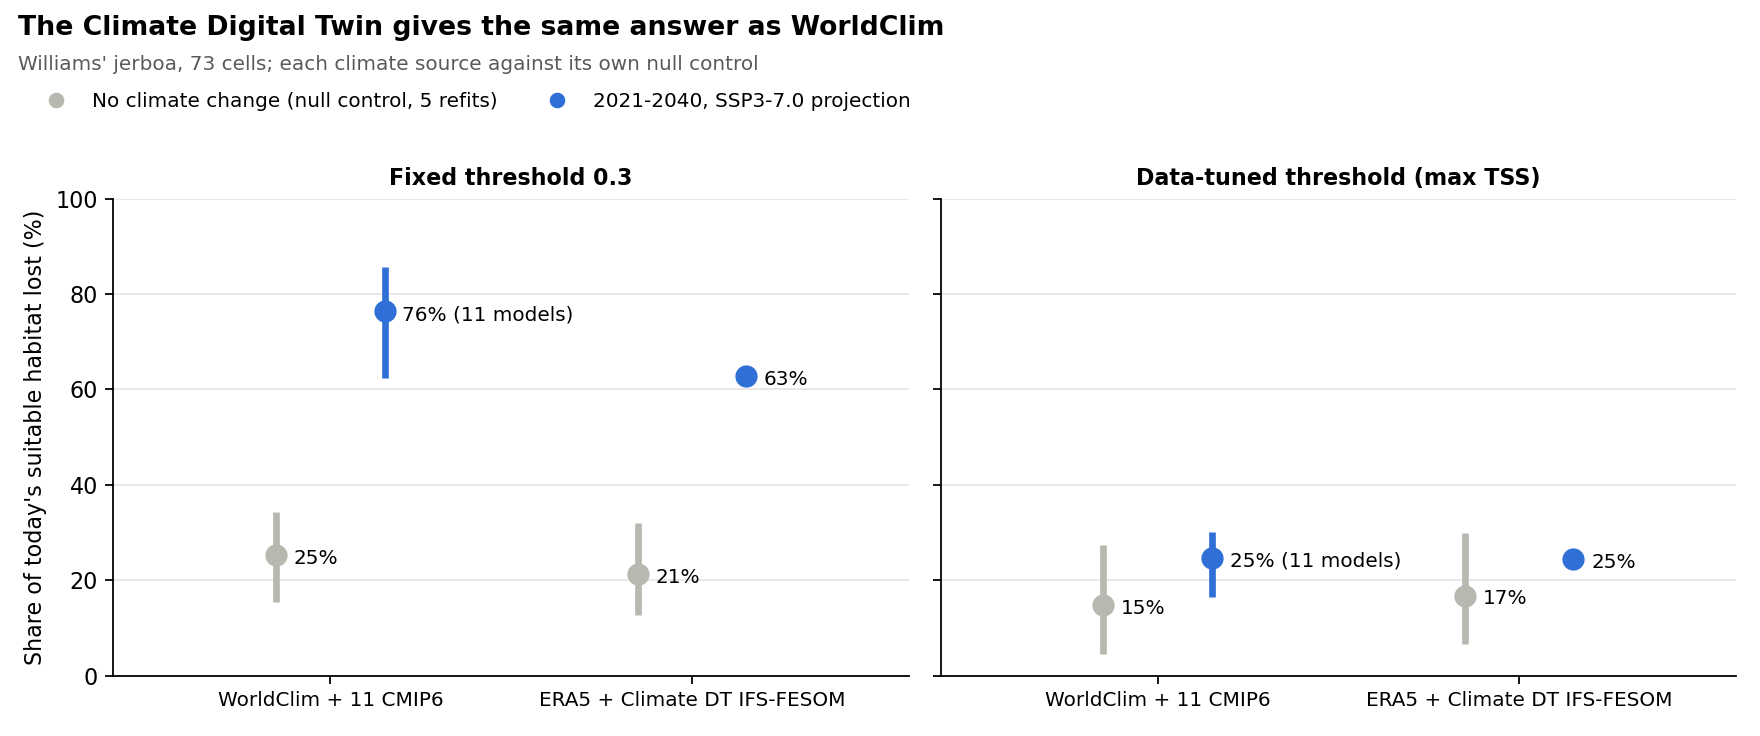
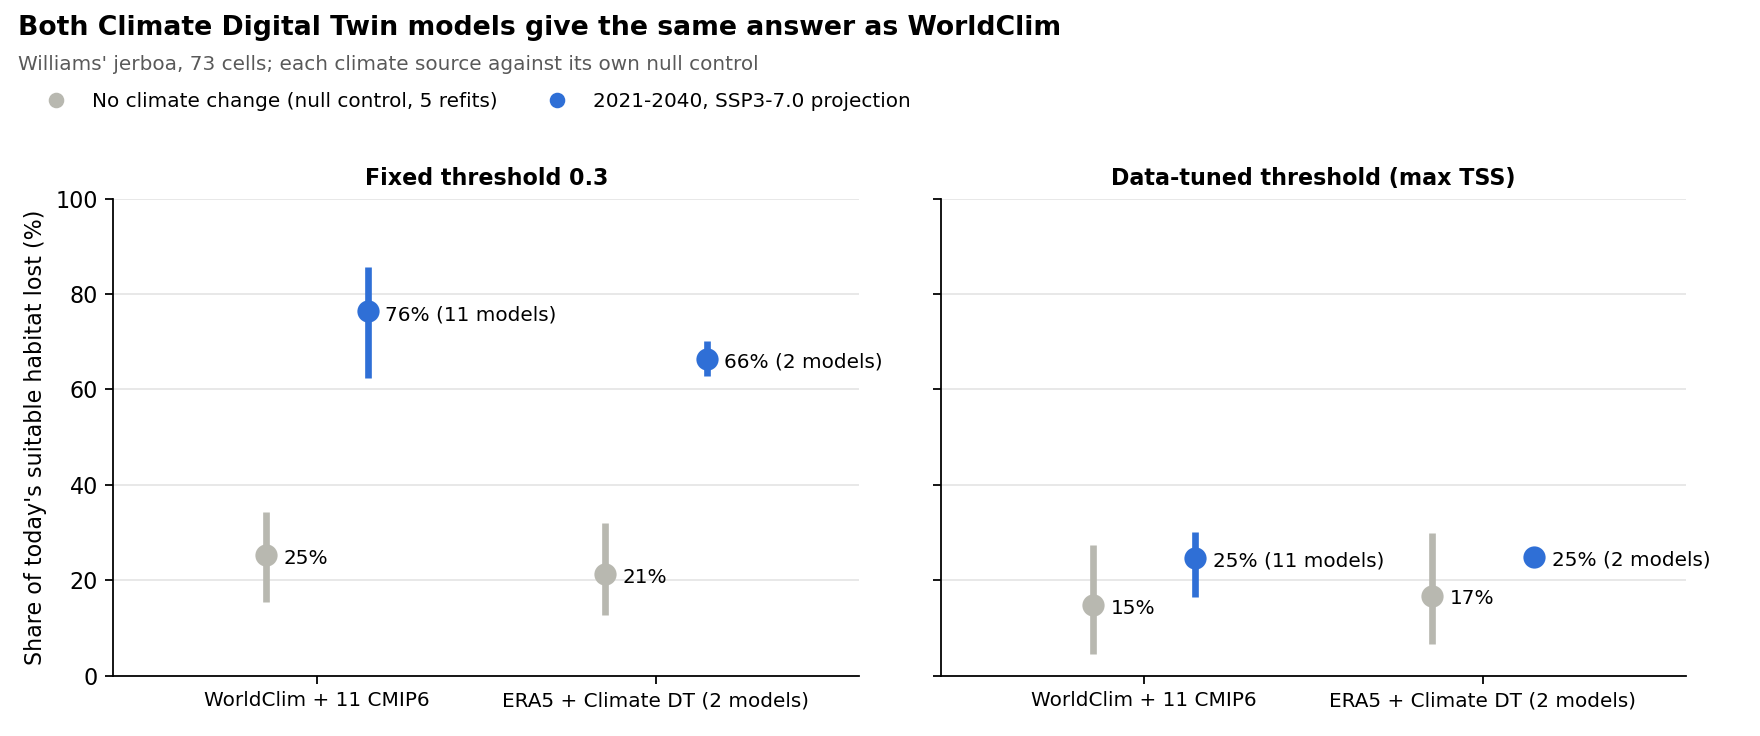
Second Climate DT model (IFS-NEMO) in the ERA5 configuration
Loss 2021-2040, 73 cells: 70.1% (IFS-NEMO) and 62.8% (IFS-FESOM) at the paper's threshold
against a null of 12.8-32.0%; 25.2% and 24.5% at max TSS, inside the null, as with WorldClim.
IFS-NEMO over 1991-2020: +1.05 degC, 70% of ERA5's precipitation. Figure rows and PNG updated.

diff --git a/pipeline/99_doc_figures.py b/pipeline/99_doc_figures.py
@@ -29,7 +29,7 @@ print(json.dumps(rows, indent=1))
 # Figure "WorldClim against the Climate Digital Twin" (73 cells, 2021-2040, SSP3-7.0): each configuration with its
 # own null control. Reads results/loss_era5_occurrences_merged.csv, null_control_era5_occurrences_merged.json and
 # bioclim_checks_era5.json; writes results/doc_figure_climatedt.json.
-CONF = {"worldclim": "WorldClim + 11 CMIP6", "era5": "ERA5 + Climate DT IFS-FESOM"}
+CONF = {"worldclim": "WorldClim + 11 CMIP6", "era5": "ERA5 + Climate DT (2 models)"}
 rows2 = []
 for conf, clab in CONF.items():
     tag = f"{conf}_occurrences_merged"
@@ -87,6 +87,6 @@ def dot_range(rows, group_key, title, subtitle, out):
 dot_range(rows, "occ", "With the authors' localities, projected loss clears the noise",
           "Williams' jerboa, WorldClim 2.1 + 11 CMIP6 models; dot = median (null: mean), line = range",
           "figures/doc_loss_vs_null.png")
-dot_range(rows2, "conf", "The Climate Digital Twin gives the same answer as WorldClim",
+dot_range(rows2, "conf", "Both Climate Digital Twin models give the same answer as WorldClim",
           "Williams' jerboa, 73 cells; each climate source against its own null control",
           "figures/doc_worldclim_vs_climatedt.png")

diff --git a/README.md b/README.md
@@ -36,7 +36,7 @@ With public GBIF data alone the projected loss cannot be told from model noise; 
 
 - Occurrences: GBIF read with [healpix-connector](https://github.com/annefou/healpix-connector) v0.2.0 ([doi:10.5281/zenodo.23603498](https://doi.org/10.5281/zenodo.23603498)), Catalogue of Life XR taxonomy stated (keys BSW8, *Allactaga (Paralactaga) williamsi* Thomas 1897, and VNB82, the 2016 concept to which records labelled *Scarturus williamsi* are attached by name matching), each record's uncertainty footprint kept; iNaturalist "needs ID"; 53 localities digitised from Figure 1A of the paper (CC BY 4.0) with an overlay check, about 15 km uncertainty: `inputs/literature/helvaci2025_fig1A_digitised.csv`, `figures/helvaci2025_fig1A_digitised_overlay.png`, reproduced by `pipeline/digitise/fetch_figure.py` then `fig1_points.py` (kept in this private repository until the authors agree).
 - Check without map digitising: 23 *S. williamsi* localities named in the GenBank records of Olgun Karacan et al. 2024 (doi:10.1155/jzs/8123686; their Table S1 gives provinces only), geocoded with OpenStreetMap Nominatim (5 km for a village or town, 15 km for a district): `inputs/literature_genbank/olgunkaracan2024_genbank_localities.csv` by `pipeline/digitise/genbank_localities.py`; set `occurrences_genbank` (43 cells), run with `00b_extra_occurrences.py work occurrences_genbank <file>`, `02_sdm.py`, `06_null_control.py`.
-- Climate: WorldClim 2.1 (2.5') and CMIP6 change-factor layers; ERA5 1991-2020 (`pipeline/04b_era5.py`, Planetary Computer Zarr) with Climate DT generation 2 changes (IFS-FESOM done, IFS-NEMO in progress), read with healpix-connector `sources.climatedt_monthly`; ERA5-Land (`pipeline/04_era5land.py`) as a second baseline when the CDS queue allows.
+- Climate: WorldClim 2.1 (2.5') and CMIP6 change-factor layers; ERA5 1991-2020 (`pipeline/04b_era5.py`, Planetary Computer Zarr) with Climate DT generation 2 changes (IFS-FESOM and IFS-NEMO), read with healpix-connector `sources.climatedt_monthly`; ERA5-Land (`pipeline/04_era5land.py`) as a second baseline when the CDS queue allows.
 - ERA5 (0.25 deg, wider than a cell) goes onto the WGS84 cells with healpix-connector `sources.gridded.sample_cells_from_grid` (value of the box containing the cell centre); an exact area overlap differs by 0.1 degC on average (2001).
 - Grid: HEALPix depth 10 (40.5 km2 cells; healpix-geo, WGS84 ellipsoid, NESTED); resampling with healpix-resample, bilinear in conservative mode (`pipeline/90_compare_resamplers.py`: within 0.1 of an exact area overlap; Climate DT sphere -> WGS84 by matching ids would be off by 0.80 degC on average).
 - Model: as in the paper (Random Forest, 1,000 background cells, 10 replicates 70/30, TSS-weighted ensemble), plus a null control (`pipeline/06_null_control.py`) and sensitivity to the threshold and to 10,000 background cells.
